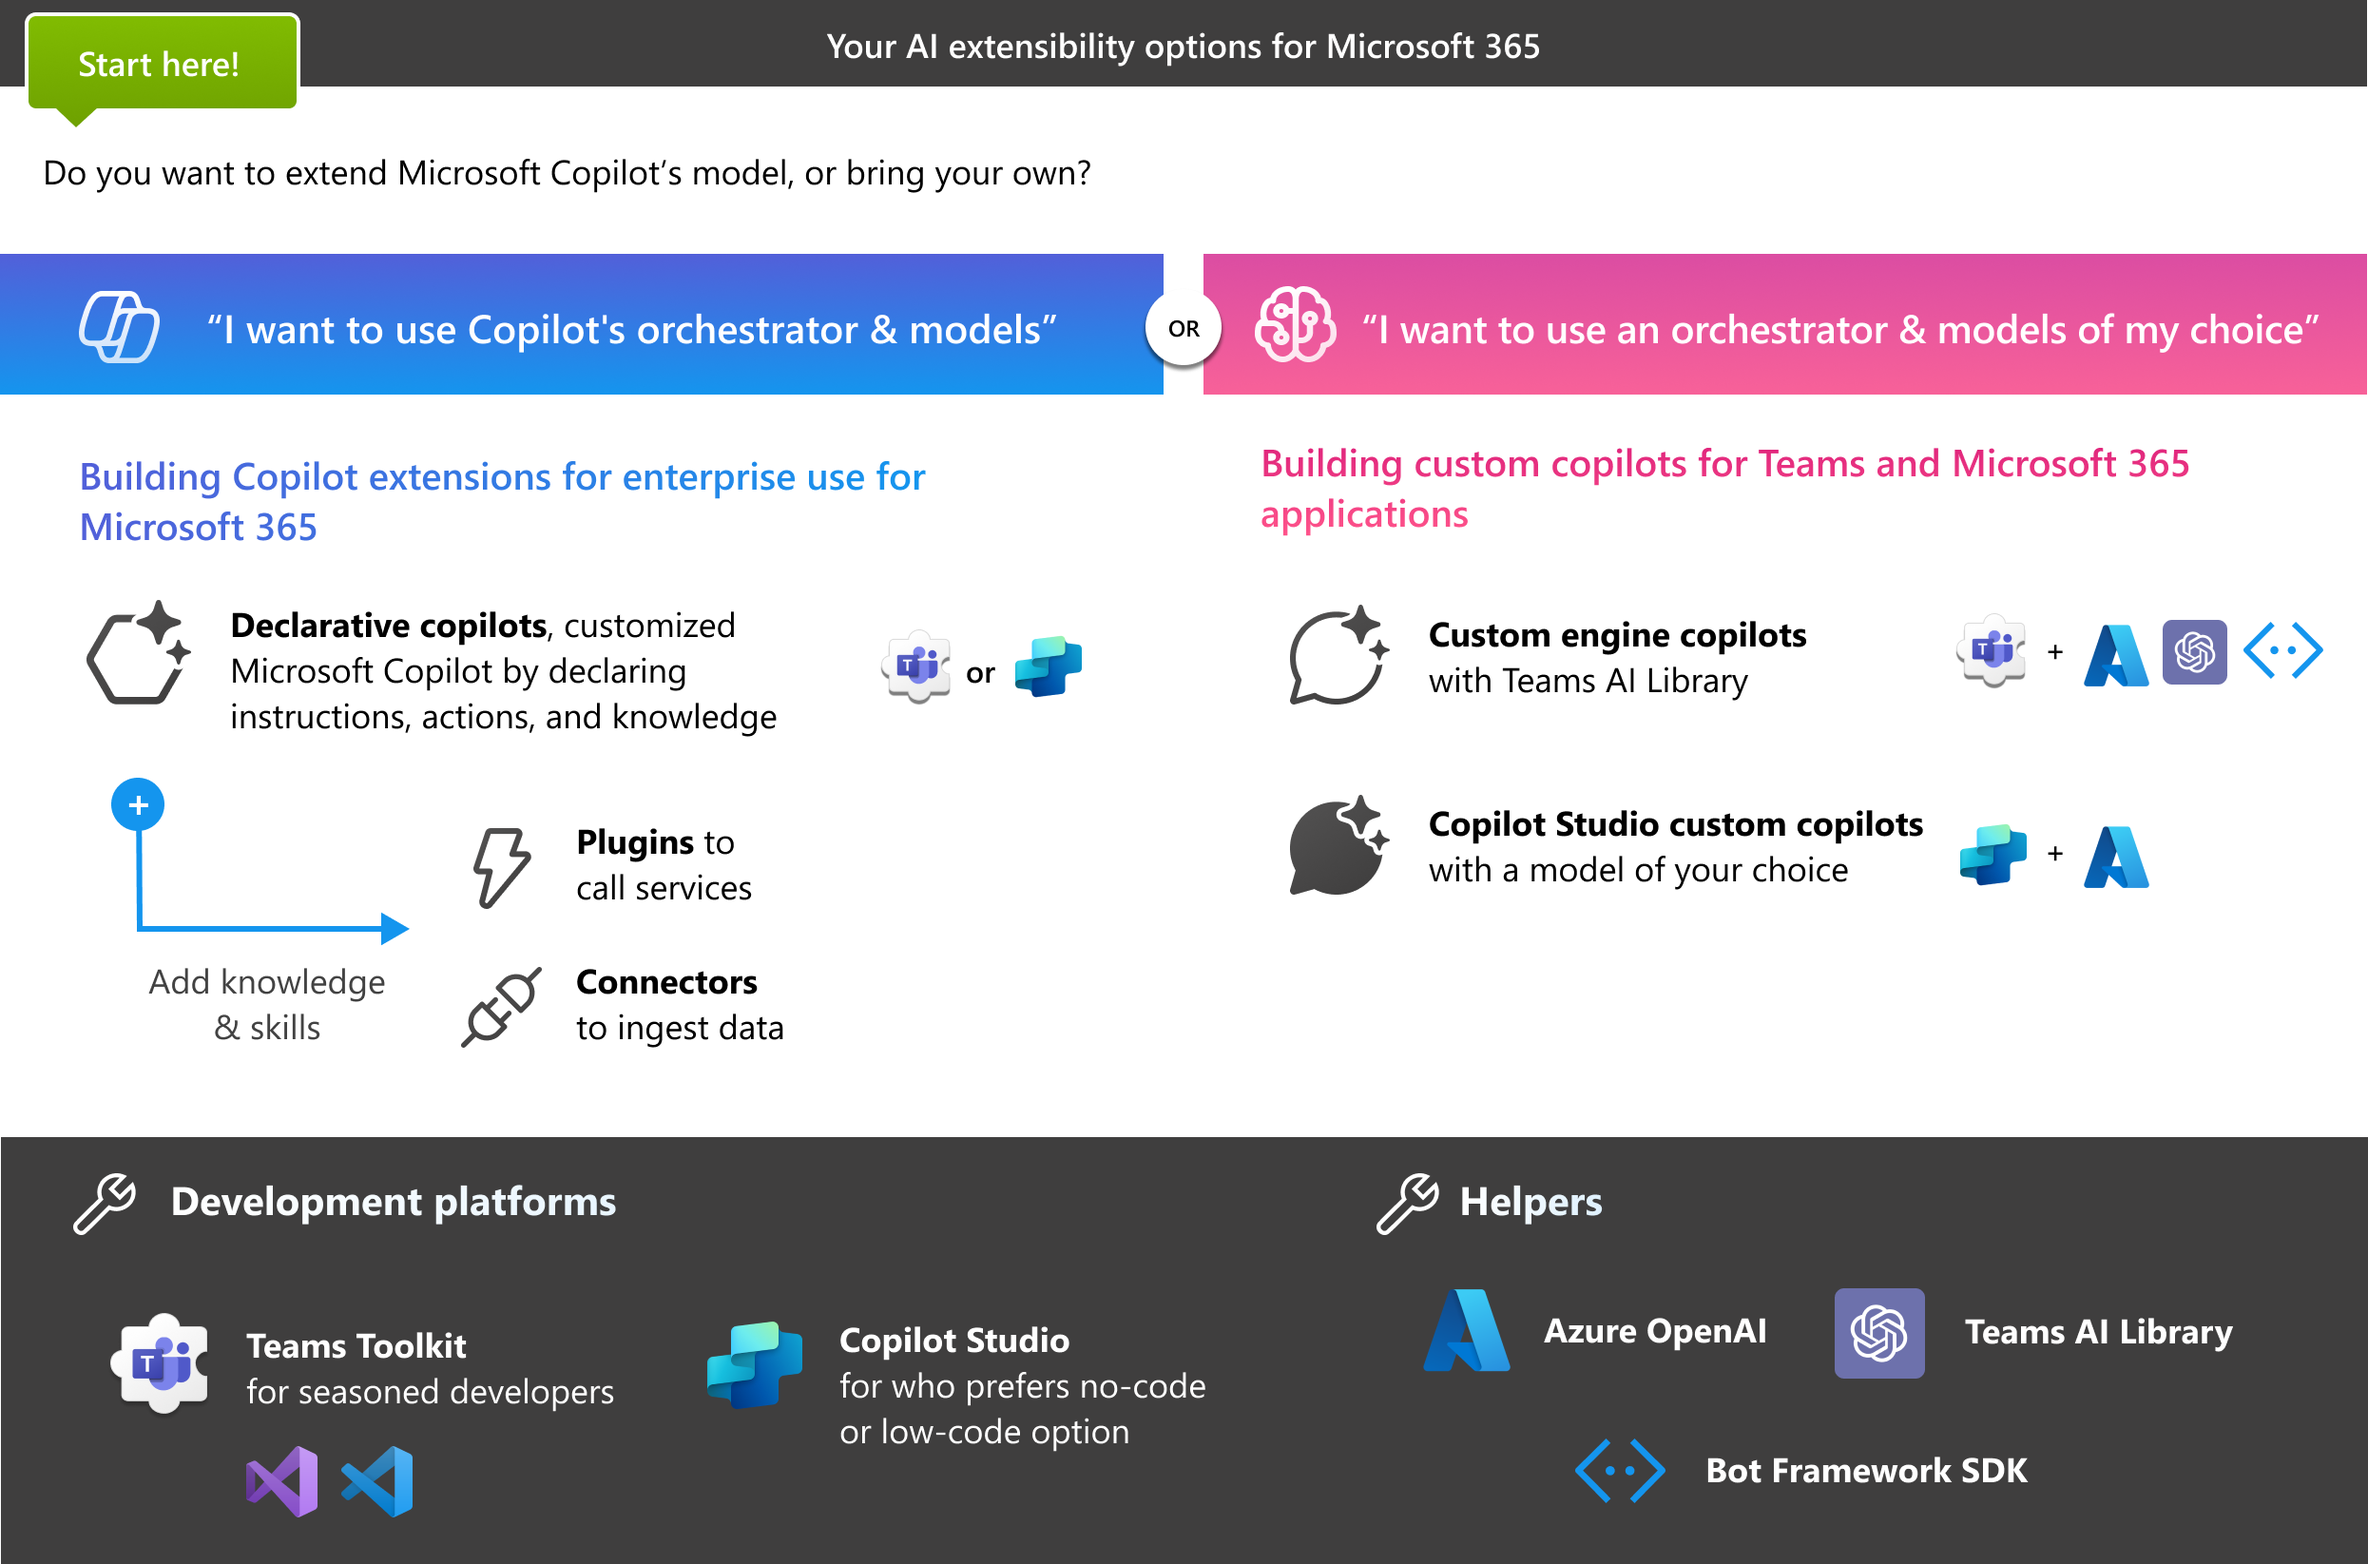
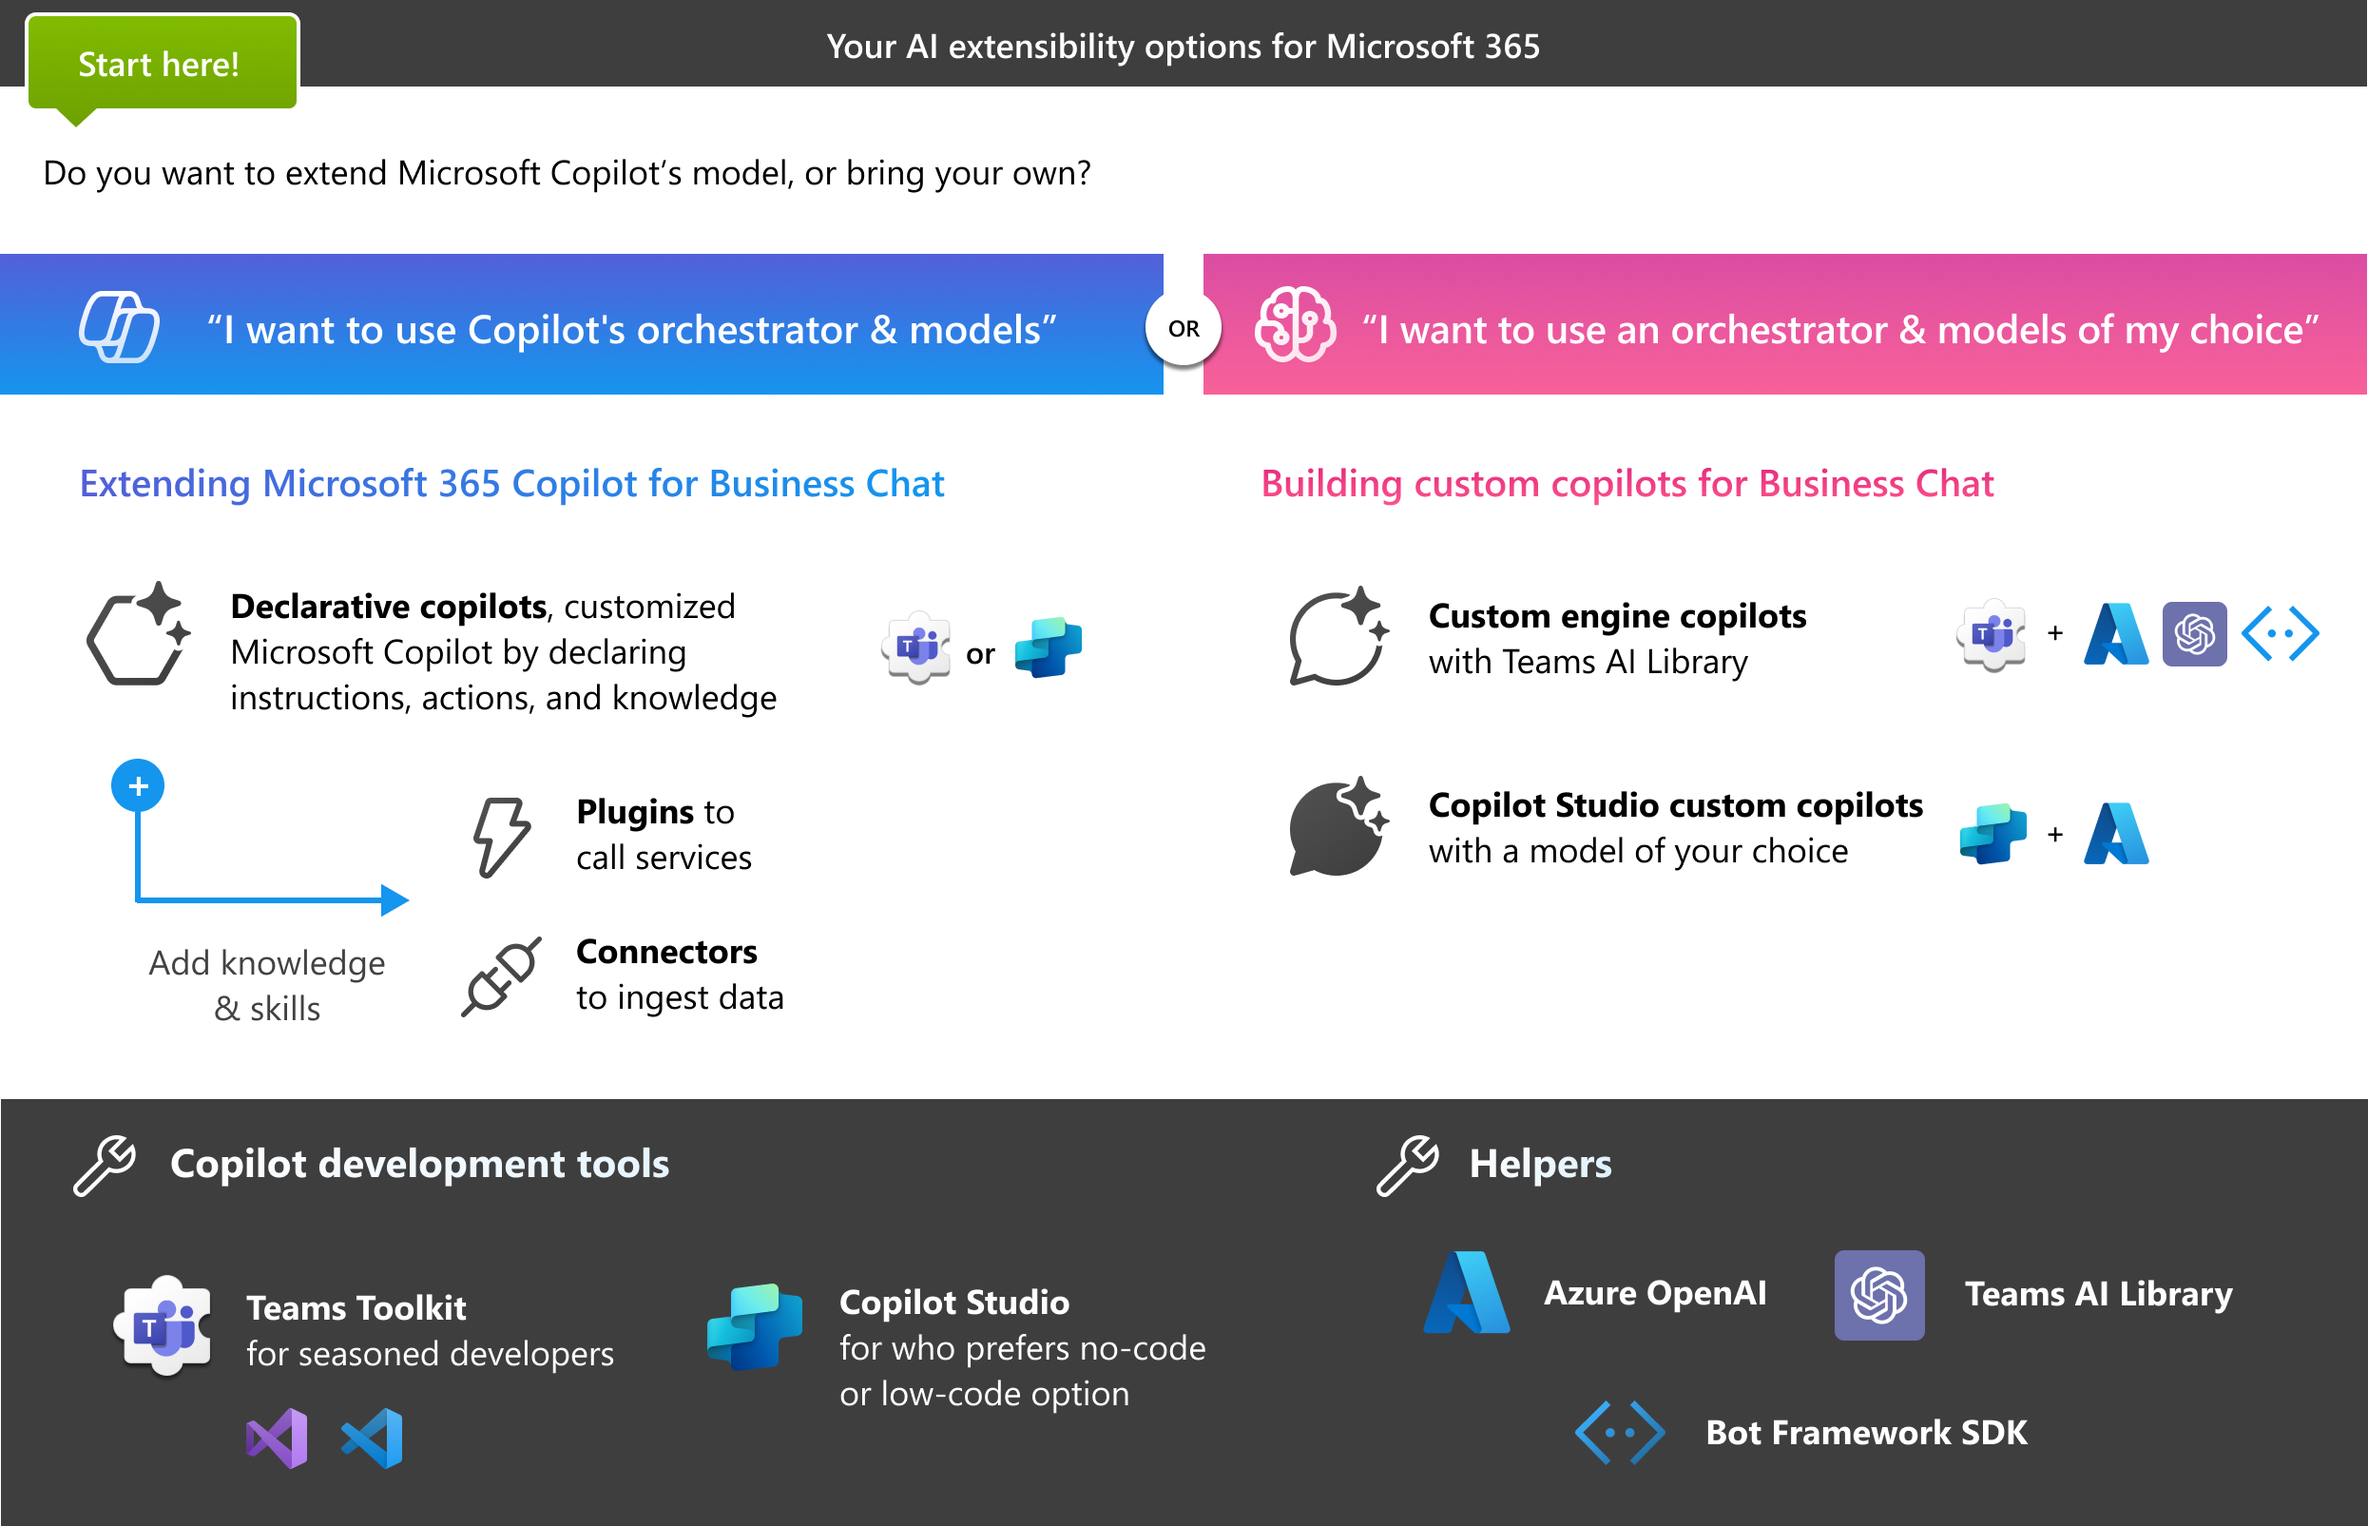
Reflect the changes to decision guide

diff --git a/docs/decision-guide.md b/docs/decision-guide.md
@@ -4,7 +4,7 @@ description: Understand which type of copilots and Microsoft 365 Copilot extensi
 author: girliemac
 ms.author: timura
 ms.topic: conceptual
-ms.date: 08/16/2024
+ms.date: 09/06/2024
 ---
 
 # Your copilot options for Microsoft 365
@@ -24,12 +24,12 @@ Here's your first decision-making point; extending Copilot to leverage the model
 
 :::image type="content" source="assets/images/m365-extensibility-decisions.png" alt-text="A diagram that helps you to decide which Microsoft 365 extensibility options are best for you. Read the article on this page for the details." lightbox="assets/images/m365-extensibility-decisions.png" :::
 
-**You probably want to extend Microsoft Copilot if any of the following is true:**
-- You want to build a service on top of Microsoft Copilot
+**Extend Microsoft 365 Copilot if any of the following is true:**
+- You want to build a service on top of Microsoft 365 Copilot
 - You have a REST API (so that you can plug it into your Copilot plugin)
 - You have prior experience in building a Teams message extension (so that you can just update it as a Copilot plugin)
 
-**You probably want to build a custom engine copilot if any of the following is true:**
+**Build a custom copilot if any of the following is true:**
 - You want to use a particular model, an LLM or small language model (SLM), for your service
 - You want your service to be independent from Microsoft Copilot, accessible to all Microsoft 365 users, regardless of your Copilot licensing status 
 - You have prior experience in building a Teams bot, or are familiar with Teams bot development (so you can quickly get started with Teams AI Library to build a custom engine copilot)
@@ -44,7 +44,7 @@ Here's your first decision-making point; extending Copilot to leverage the model
 
 ---
 
-## Option 1. Extending Microsoft Copilot
+## Option 1. Extending Microsoft 365 Copilot
 
 Okay, you want to leverage the Copilot orchestrator. Now, let's have a quick grasp of Microsoft Copilot—**Microsoft Copilot** is available for end-users across multiple Microsoft products, including: Microsoft 365 (Office) app, Teams, Outlook, PowerPoint, Word, Excel, Power Apps, Power Automate, Power Virtual Agents, Power Pages, and Dynamics 365.
 
@@ -60,9 +60,9 @@ By **extending Microsoft 365 Copilot** for enterprise users,
 > [!TIP]
 > Are you a business decision maker? Check out the [Microsoft Copilot Scenario Library](https://adoption.microsoft.com/copilot-scenario-library/)
 
-### Types of copilot extensibility for Microsoft 365
+### Types of Microsoft 365 Copilot extensibility
 
-Now, it’s important to understand the variety of methods available for applying the capabilities of external services, apps, and data.
+Now, it's important to understand the variety of methods available for applying the capabilities of external services, apps, and data.
 
 > [!VIDEO https://www.youtube.com/embed/ILPOhVz9OdI]
 
@@ -88,37 +88,40 @@ When & why to use Declarative copilots:
 
 And you can connect your declarative copilots with connectors and plugins.
 
-#### Microsoft Graph connectors
+#### Connectors
+
+Use connectors to ingest external data to your copilots.
 
 🎯 [**Graph connectors**](overview-graph-connector.md) enable data ingestion from various sources to Microsoft Graph, facilitating unified data access and insights across Microsoft 365 and other services. They can work either standalone, or with declarative copilots.
+
+🎯 [**Power Platform connectors**](/microsoft-copilot-studio/copilot-plugins-overview?context=/microsoft-365-copilot/extensibility/context) enable Power Platform applications to interact with external services and data sources in real-time. 
 
 > [!NOTE]
 > Connectors can be built as a stand-alone, or with a declarative copilot.
 
 #### Plugins
 
-**Plugins** add skills and actions to Microsoft 365. Plugins have a few different types that are built differently.
-And there are the growing number of extensions you build. Your options include:
+**Plugins** add skills and actions to Microsoft 365. Plugins have a few different types that are built differently. There are the growing number of extensions you build. Your options include:
 
 - 🎯 [**API plugins**](overview-api-plugins.md) can work either standalone, or with declarative copilots by calling REST APIs via OpenAPI service.
 - 🎯 [**Teams Message Extensions**](overview-message-extension-bot.md) for Teams are the search and action capability for Teams that now work as plugins too.
-- 🎯 [**Actions in Copilot Studio**](/microsoft-copilot-studio/copilot-plugins-overview?context=/microsoft-365-copilot/extensibility/context), which connects Microsoft 365 and the Power Platform environment. Actions include **Conversational actions**, **Prompts**, **Flows**, and **Connectors**. If you prefer developing without much coding, these options are for you.
+- 🎯 [**Actions in Copilot Studio**](/microsoft-copilot-studio/copilot-plugins-overview?context=/microsoft-365-copilot/extensibility/context), which connects Microsoft 365 and the Power Platform environment. Actions include **Prompts**, **Flows**, and **Connectors**. If you prefer developing without much coding, these options are for you.
 
 > [!NOTE]
-> Plugins can be built as a stand-alone, or with a declarative copilot.
+> Currently, API plugins can be only built with a declarative copilot.
 
 > [!TIP]
 > If you've built message extensions for Teams before, you can immediately see the value of Copilot extensibility, but if you want to build the latest and greatest, try building API plugins and Graph Connectors!
 
 ### Tool options: Pro-code or low-code?
 
-Your journey vary based on your desired outcomes and your coding expertise. Whether you're a seasoned coder or prefer low-code or no-code solutions, there’s a suite of tools tailored to your development style.
+Your journey vary based on your desired outcomes and your coding expertise. Whether you're a seasoned coder or prefer low-code or no-code solutions, there's a suite of tools tailored to your development style.
 
 How you build and which tools you should use is up to you. Your choices are:
 
 - 🎯 **Pro-code** options are declarative copilots, API plugins, message extensions, and Graph connectors. [**Teams Toolkit**](/microsoftteams/platform/toolkit/teams-toolkit-fundamentals) for [Visual Studio Code extension](https://marketplace.visualstudio.com/items?itemName=TeamsDevApp.ms-teams-vscode-extension) would be your best friend for the development to tailor your copilots.
 
-- 🎯 **Low-code** or **no-code** options are declarative copilots, all Copilot Studio actions, and Graph connectors as knowledge source. You can develop rapidly with user-friendly interface on [**Copilot Studio**](/microsoft-copilot-studio/fundamentals-what-is-copilot-studio).
+- 🎯 **Low-code** or **no-code** options are declarative copilots, all Copilot Studio actions, and Power Platform connectors as knowledge source. You can develop rapidly with user-friendly interface on [**Copilot Studio**](/microsoft-copilot-studio/fundamentals-what-is-copilot-studio).
 
 :::image type="content" source="assets/images/decision-making-guide.png" alt-text="A diagram that shows various developer options." lightbox="assets/images/decision-making-guide.png":::
 

diff --git a/docs/index.md b/docs/index.md
@@ -35,7 +35,7 @@ On the other hand, **Custom copilots** are developed using custom foundation mod
 
 To find out which copilots work the best for you, learn the differences at [Your copilot options for Microsoft 365](decision-guide.md).
 
-## Types of Microsoft 365 Copilot extensions
+## Types of Microsoft 365 Copilot extensibility
 
 There are multiple ways to extend Microsoft 365 Copilot.
 
